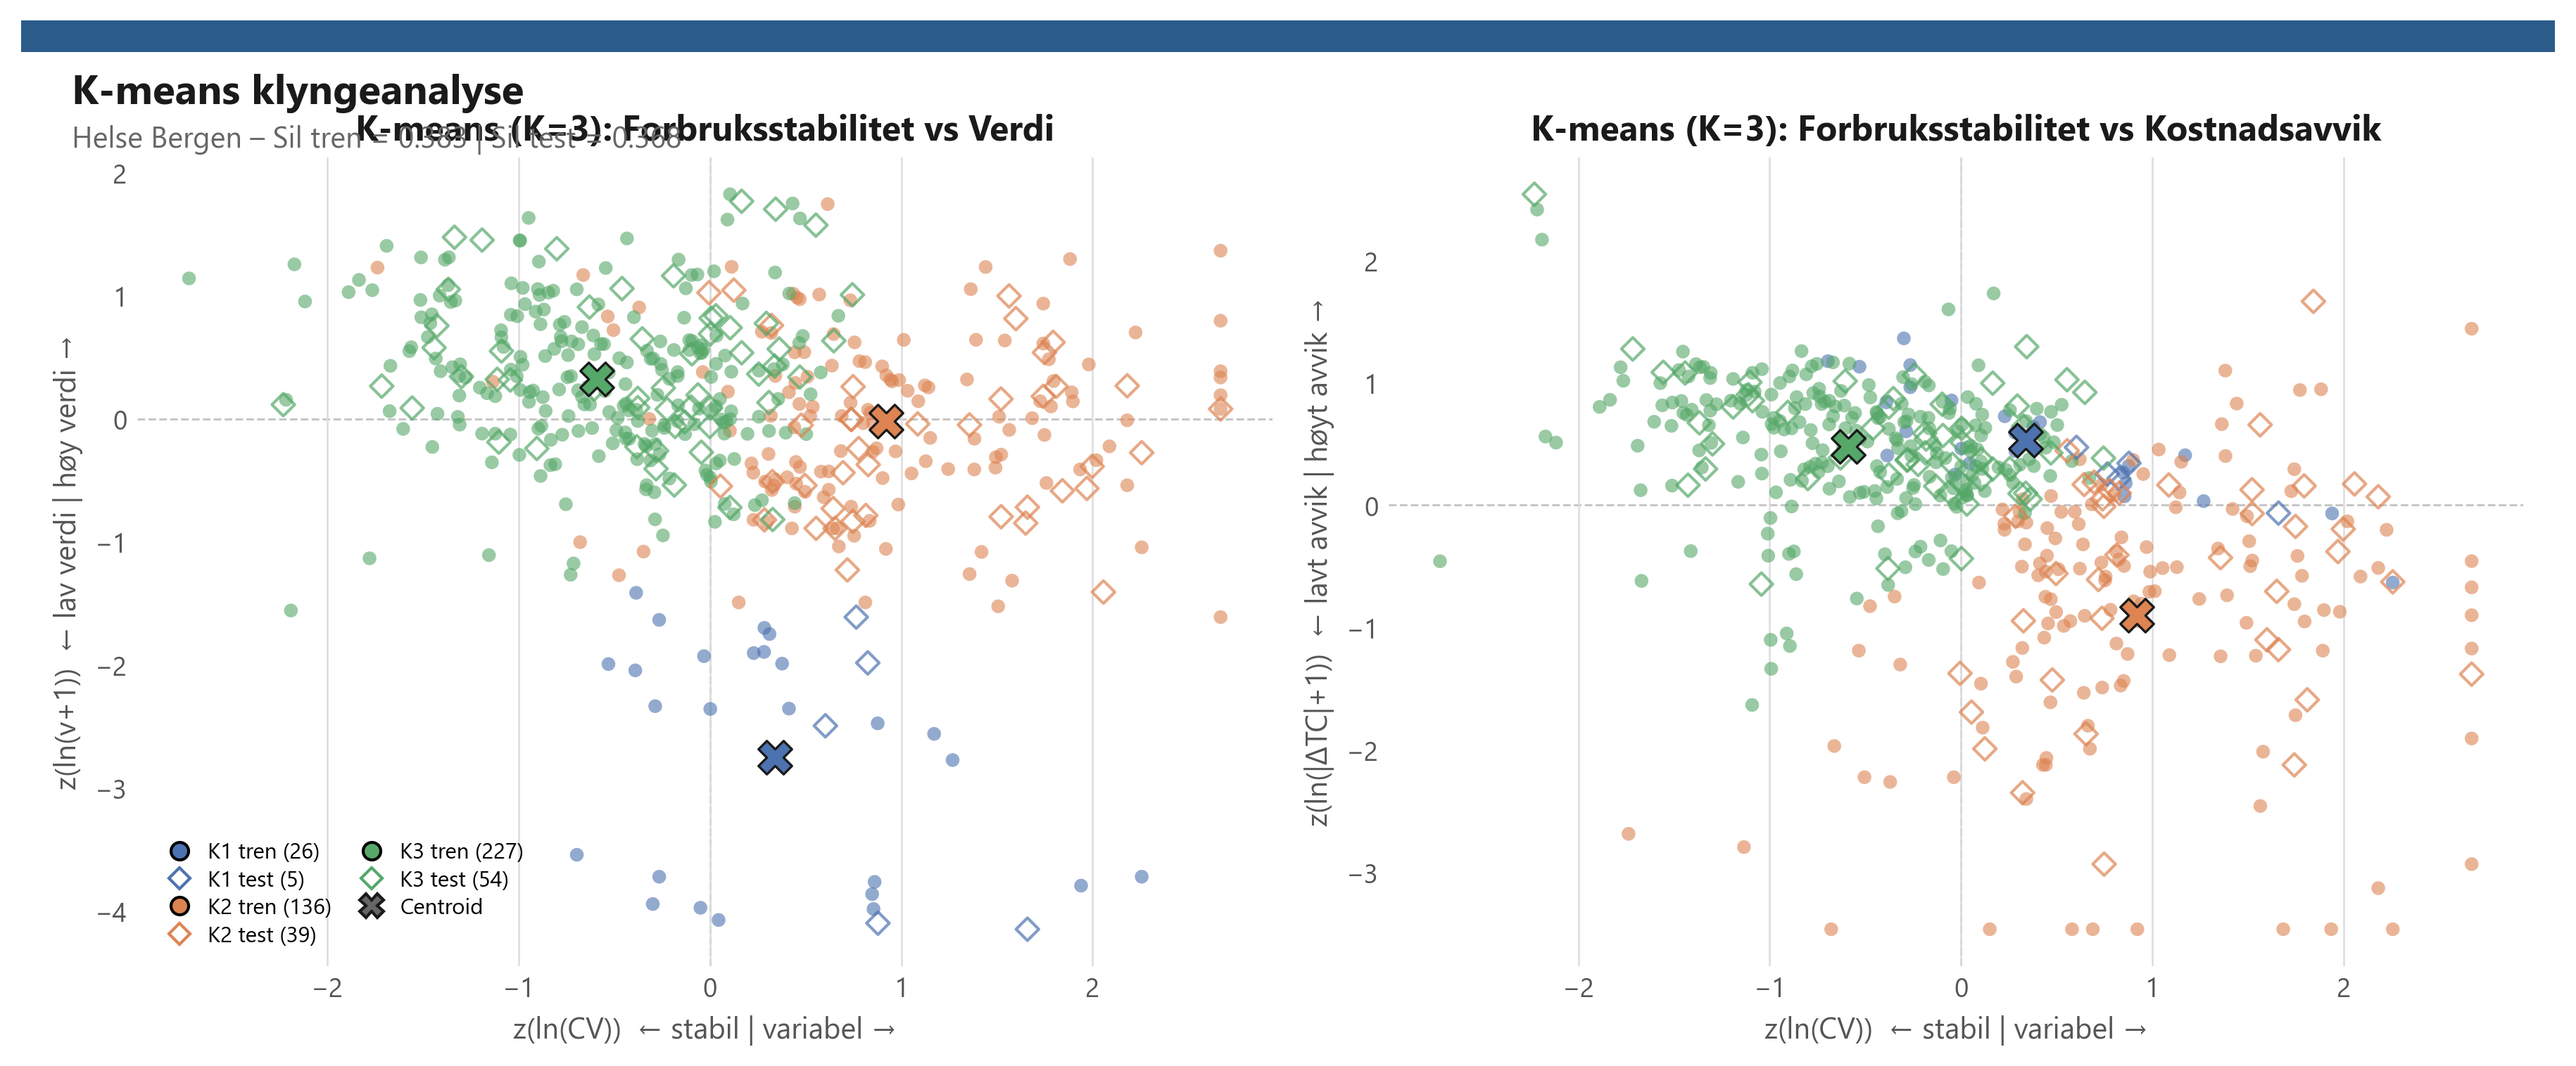
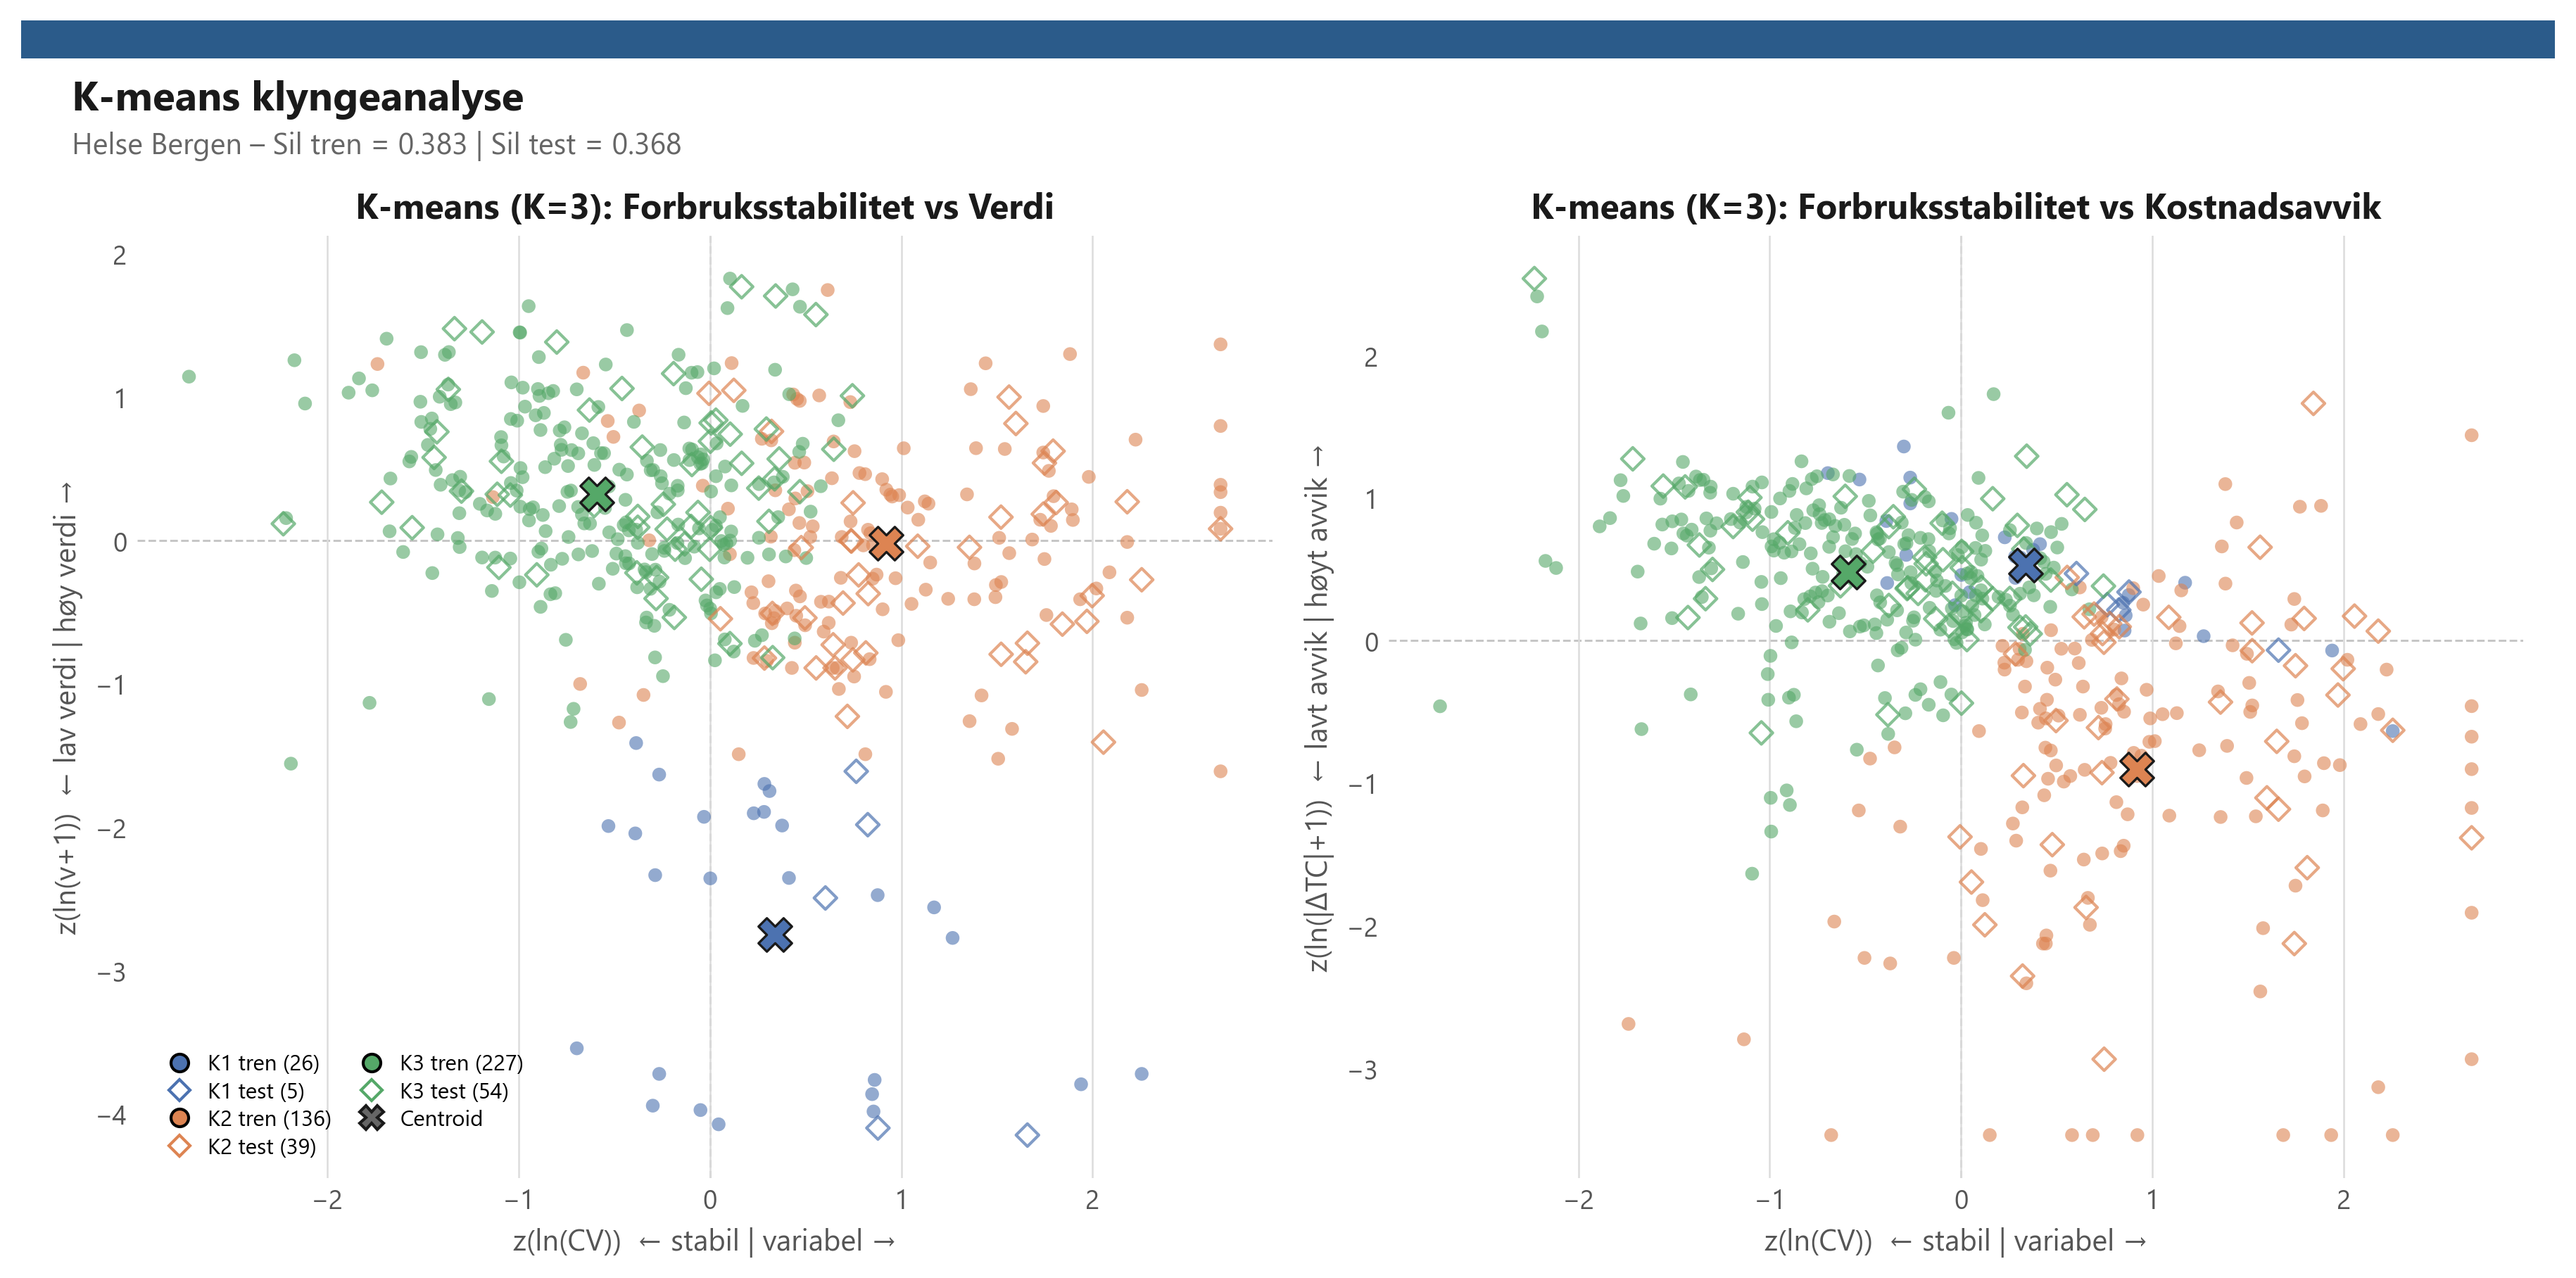
Fiks layout-konsistens: Fig09 titteloverlapp og Fig04 grid
- Fig09: Auka figurhøgd og justert top-margin slik at undertittel
  ikkje overlappar med subplot-titlar
- Fig04: Endra barh-panel til eksplisitt x-grid (fjerna y-grid)
  for konsistens med resten av figurane

diff --git a/006 Analyse/plot_kmeans_klynger.py b/006 Analyse/plot_kmeans_klynger.py
@@ -51,7 +51,7 @@ n_train = train["CLUSTER"].value_counts().sort_index()
 n_test = test["CLUSTER"].value_counts().sort_index()
 
 # ── Plot ─────────────────────────────────────────────────────────
-fig, (ax1, ax2) = plt.subplots(1, 2, figsize=(12, 5))
+fig, (ax1, ax2) = plt.subplots(1, 2, figsize=(12, 6))
 
 def scatter_panel(ax, x_col, y_col, y_label, title):
     feat_idx_x = features.index("LN_CV")
@@ -136,9 +136,10 @@ ax1.legend(
 )
 
 # ── Tittel og eksport ────────────────────────────────────────────
-plt.tight_layout()
+plt.tight_layout(rect=[0, 0, 1, 0.88])
 fig_title(fig, "K-means klyngeanalyse",
           f"Helse Bergen \u2013 Sil tren = {sil_train:.3f} | Sil test = {sil_test:.3f}")
+fig.subplots_adjust(top=0.83)  # ekstra plass under undertittel
 
 out = r"C:\G24\G24-thomas-individuell\006 analyse\plots\Fig09_Kmeans_Klynger.png"
 fig.savefig(out, dpi=300, bbox_inches="tight", facecolor="white")

diff --git a/006 Analyse/plot_dataoversikt.py b/006 Analyse/plot_dataoversikt.py
@@ -51,7 +51,8 @@ labels = [str(n)[:25] + "…" if len(str(n)) > 25 else str(n) for n in topp10.in
 ax.set_yticklabels(labels, fontsize=8)
 ax.set_xlabel("Antall artiklar")
 ax.set_title("(a) Artiklar per varegruppe", pad=10)
-ax.grid(axis="x")  # barh treng x-grid
+ax.yaxis.grid(False)
+ax.xaxis.grid(True)  # barh treng x-grid
 for bar, val in zip(bars, topp10.values):
     ax.text(val + 1, bar.get_y() + bar.get_height() / 2,
             str(val), va="center", fontsize=8, color=COLORS["title"])
